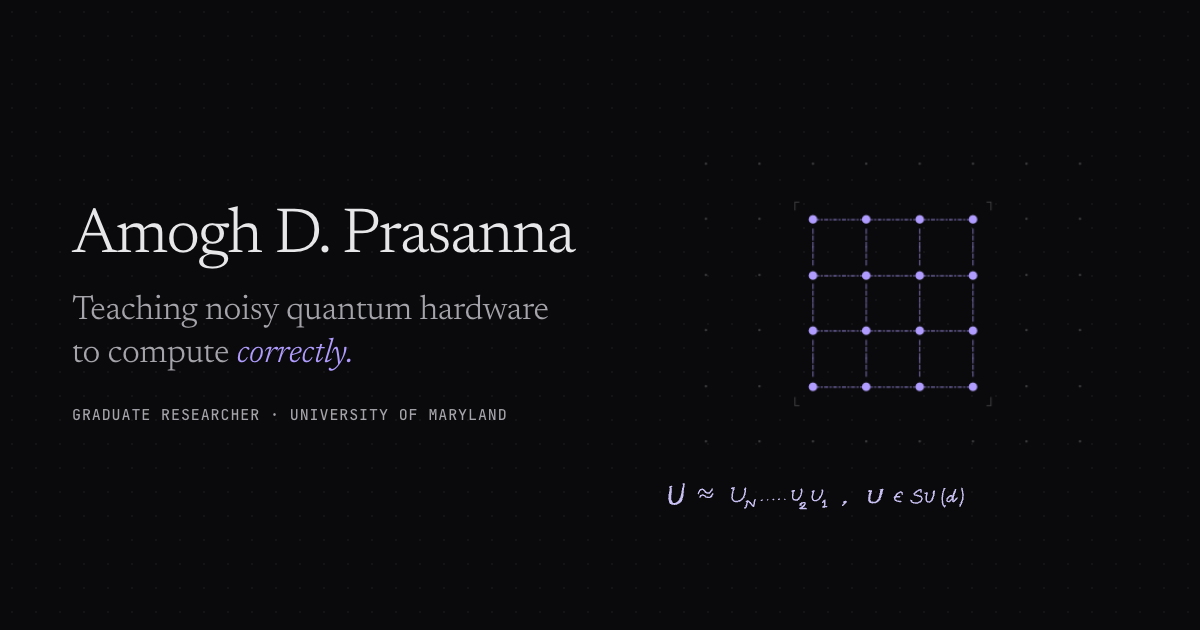
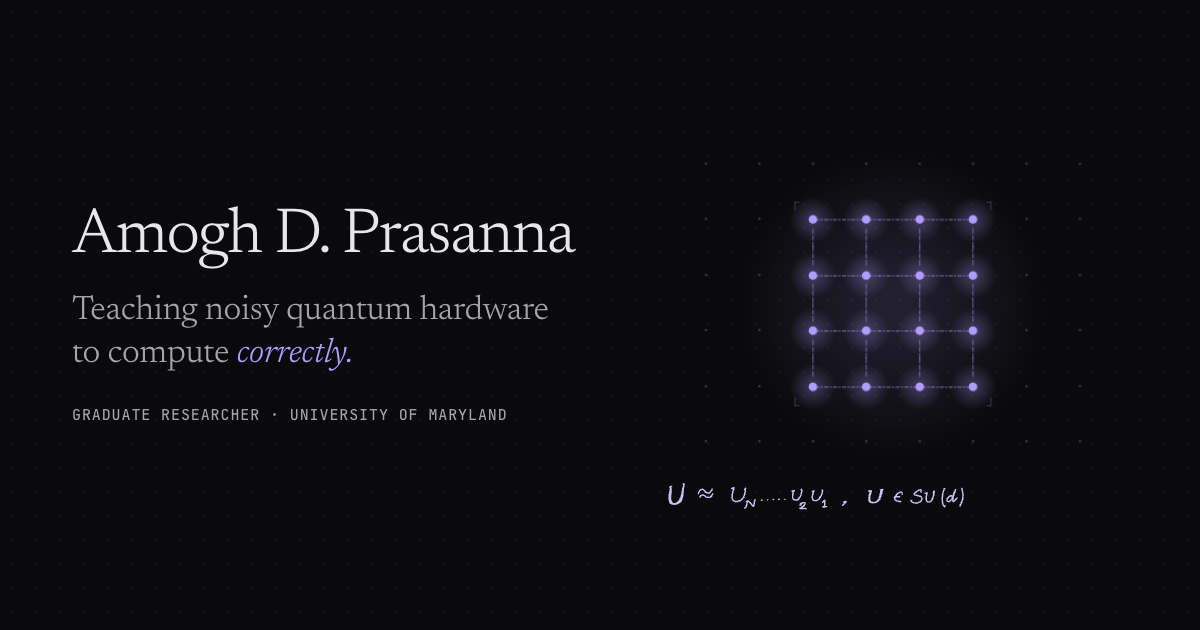
Hero: bring back the original's glow, in ASCII
Soft violet glow under each atom, a halo over the entangled block, a
glowing pulse sweep and gentle idle breathing (paused off-screen and
under reduced motion), layered under the ASCII glyphs. The glow now fades
to transparent accent instead of transparent black, which read as grey;
light-theme glow strength lowered to 0.22. Share image regenerated.

Changed region(s): [[0.6475, 0.3016, 0.8325, 0.6635]]

diff --git a/src/scripts/tweezer.ts b/src/scripts/tweezer.ts
@@ -1,7 +1,8 @@
 // Tweezer array, drawn in monospace characters: atoms load into an 8 x 6 grid
 // of optical traps at random, are moved into a defect-free 4 x 4 block, and
-// are entangled by a Rydberg pulse that sweeps across it. Plays once, then
-// stops. Canvas 2D, one glyph per character cell, no glow.
+// are entangled by a Rydberg pulse that sweeps across it. Plays once, then the
+// entangled block breathes gently. Canvas 2D: a soft violet glow layer under a
+// grid of glyphs, one glyph per character cell.
 
 type Atom = { c: number; r: number; t0: number; from?: [number, number]; to?: [number, number]; m0?: number; gone?: number };
 type Tone = 'faint' | 'mute' | 'atom' | 'accent';
@@ -23,12 +24,14 @@ export function mountTweezer(root: HTMLElement) {
 
   let W = 0, H = 0, dpr = 1, fs = 14, cw = 8, ch = 16, font = 'monospace';
   let col: Record<Tone, string> = { faint: '#444', mute: '#999', atom: '#fff', accent: '#a898ff' };
-  let atoms: Atom[] = [], start = 0, raf = 0, visible = true, sortEnd = 0;
+  let atoms: Atom[] = [], start = 0, raf = 0, visible = true, sortEnd = 0, glowK = 1;
 
   const readColors = () => {
     const s = getComputedStyle(root);
     const v = (n: string) => s.getPropertyValue(n).trim();
     col = { faint: v('--faint'), mute: v('--mute'), atom: v('--atom'), accent: v('--accent') };
+    glowK = parseFloat(v('--glow')) || 1; // full in dark, softer in light
+    sprite = null;
     font = getComputedStyle(phases[0] ?? root).fontFamily;
   };
   // Trap sites sit on character cells with a whole number of cells between
@@ -73,14 +76,36 @@ export function mountTweezer(root: HTMLElement) {
     layout();
   }
 
+  // One pre-rendered radial glow, stamped with drawImage (a gradient per atom
+  // per frame is what made the first version slow on phones).
+  let sprite: HTMLCanvasElement | null = null;
+  const glowAt = (x: number, y: number, rad: number, a: number) => {
+    if (!sprite) {
+      sprite = document.createElement('canvas'); sprite.width = sprite.height = 128;
+      const s = sprite.getContext('2d')!, g = s.createRadialGradient(64, 64, 0, 64, 64, 64);
+      // Fade to the accent at zero alpha, not to 'transparent' (black), or the edge goes grey.
+      const clear = col.accent.replace(/\)\s*$/, ' / 0)').replace(/\s*\/\s*[\d.]+%?\s*\/ 0\)$/, ' / 0)');
+      g.addColorStop(0, col.accent); g.addColorStop(1, clear);
+      s.fillStyle = g; s.fillRect(0, 0, 128, 128);
+    }
+    ctx.globalAlpha = a * glowK;
+    ctx.drawImage(sprite, x - rad, y - rad, 2 * rad, 2 * rad);
+  };
+  const px = (x: number, y: number): [number, number] => [x * cw + cw / 2, y * ch + ch / 2];
+
   function frame(t: number) {
-    // One glyph per cell; later writes win, so draw back to front.
+    // Glows go on first, under the glyphs. One glyph per cell; later writes win.
+    const glows: [number, number, number, number][] = [];
     const cells = new Map<string, [string, Tone, number]>();
     const put = (x: number, y: number, g: string, tone: Tone, a = 1) => { if (a > 0.02) cells.set(`${x},${y}`, [g, tone, a]); };
 
     const ent = clamp((t - T.ent) / T.entDur);
     const [bx0, by0] = site(B.c0, B.r0), [bx1, by1] = site(B.c1, B.r1);
     const front = bx0 - 2 + ent * (bx1 - bx0 + 4); // pulse position, in cells
+    const idle = t > T.ent + T.entDur ? (Math.sin((t - T.ent - T.entDur) / 1400 - Math.PI / 2) + 1) / 2 : 0;
+    const [hx0, hy0] = px(bx0, by0), [hx1, hy1] = px(bx1, by1);
+    // Halo over the entangled block.
+    if (ent > 0) glows.push([(hx0 + hx1) / 2, (hy0 + hy1) / 2, (hx1 - hx0) * 0.95, 0.16 * ent + 0.06 * idle]);
 
     // Empty traps.
     const traps = clamp(t / T.load);
@@ -95,10 +120,15 @@ export function mountTweezer(root: HTMLElement) {
     if (ent > 0) {
       for (let r = B.r0; r <= B.r1; r++) for (let c = B.c0; c <= B.c1; c++) {
         const [x, y] = site(c, r);
-        if (c < B.c1) { const [x2] = site(c + 1, r); for (let i = x + 1; i < x2; i++) if (i < front) put(i, y, '┄', 'accent', 0.6); }
-        if (r < B.r1 && x < front) { const [, y2] = site(c, r + 1); for (let j = y + 1; j < y2; j++) put(x, j, '┆', 'accent', 0.6); }
+        const bond = 0.5 + 0.2 * idle;
+        if (c < B.c1) { const [x2] = site(c + 1, r); for (let i = x + 1; i < x2; i++) if (i < front) put(i, y, '┄', 'accent', bond); }
+        if (r < B.r1 && x < front) { const [, y2] = site(c, r + 1); for (let j = y + 1; j < y2; j++) put(x, j, '┆', 'accent', bond); }
       }
-      if (ent < 1) for (let j = by0 - 1; j <= by1 + 1; j++) put(Math.round(front), j, '┊', 'accent', 0.7 * Math.sin(Math.PI * ent));
+      if (ent < 1) {
+        for (let j = by0 - 1; j <= by1 + 1; j++) put(Math.round(front), j, '┊', 'accent', 0.7 * Math.sin(Math.PI * ent));
+        const [fx] = px(front, 0);
+        for (let j = by0; j <= by1; j += 1) glows.push([fx, px(0, j)[1], ch * 1.6, 0.12 * Math.sin(Math.PI * ent)]);
+      }
     }
 
     // Atoms.
@@ -117,6 +147,7 @@ export function mountTweezer(root: HTMLElement) {
           }
           const x = Math.round(fx + (tx - fx) * p), y = Math.round(fy + (ty - fy) * p);
           put(x - 1, y, '(', 'accent'); put(x + 1, y, ')', 'accent'); put(x, y, '●', 'atom');
+          glows.push([...px(x, y), cw * 2.4, 0.35]);
           continue;
         }
         [c, r] = a.to;
@@ -127,10 +158,14 @@ export function mountTweezer(root: HTMLElement) {
         g = LOAD[LOAD.length - 1 - out];
       }
       const [x, y] = site(c, r);
-      put(x, y, g, ent > 0 && inBlock(c, r) && x < front ? 'accent' : 'atom');
+      const bonded = ent > 0 && inBlock(c, r) && x < front;
+      put(x, y, g, bonded ? 'accent' : 'atom');
+      const grown = LOAD.indexOf(g) / (LOAD.length - 1);
+      glows.push([...px(x, y), cw * (bonded ? 2.6 : 2.1), grown * (bonded ? 0.3 + 0.1 * idle : 0.22)]);
     }
 
     ctx.clearRect(0, 0, W, H);
+    for (const [x, y, rad, a] of glows) if (a > 0.01) glowAt(x, y, rad, a);
     // Filled atoms are set a size up from the grid so they carry the figure.
     const small = `${fs}px ${font}`, big = `${Math.round(fs * 1.35)}px ${font}`;
     ctx.textAlign = 'center'; ctx.textBaseline = 'middle';
@@ -151,10 +186,11 @@ export function mountTweezer(root: HTMLElement) {
     if (!start) start = now;
     const t = now - start;
     frame(t);
-    raf = t < END() && visible && !document.hidden ? requestAnimationFrame(loop) : 0;
+    // After the sequence the block keeps breathing, only while it is on screen.
+    raf = visible && !document.hidden ? requestAnimationFrame(loop) : 0;
   }
   const done = () => start > 0 && performance.now() - start >= END();
-  const run = () => { if (!raf && visible && !reduce.matches && !done()) raf = requestAnimationFrame(loop); };
+  const run = () => { if (!raf && visible && !document.hidden && !reduce.matches) raf = requestAnimationFrame(loop); };
   const still = () => { cancelAnimationFrame(raf); raf = 0; frame(END()); };
 
   function play() {

diff --git a/src/styles/global.css b/src/styles/global.css
@@ -53,7 +53,7 @@
   --accent-soft: oklch(0.5 0.2 290 / 0.1);
   --ink: oklch(0.42 0.17 290);
   --atom: oklch(0.25 0.02 290);
-  --glow: 0.4;
+  --glow: 0.22;
 }
 
 *, *::before, *::after { box-sizing: border-box; }
